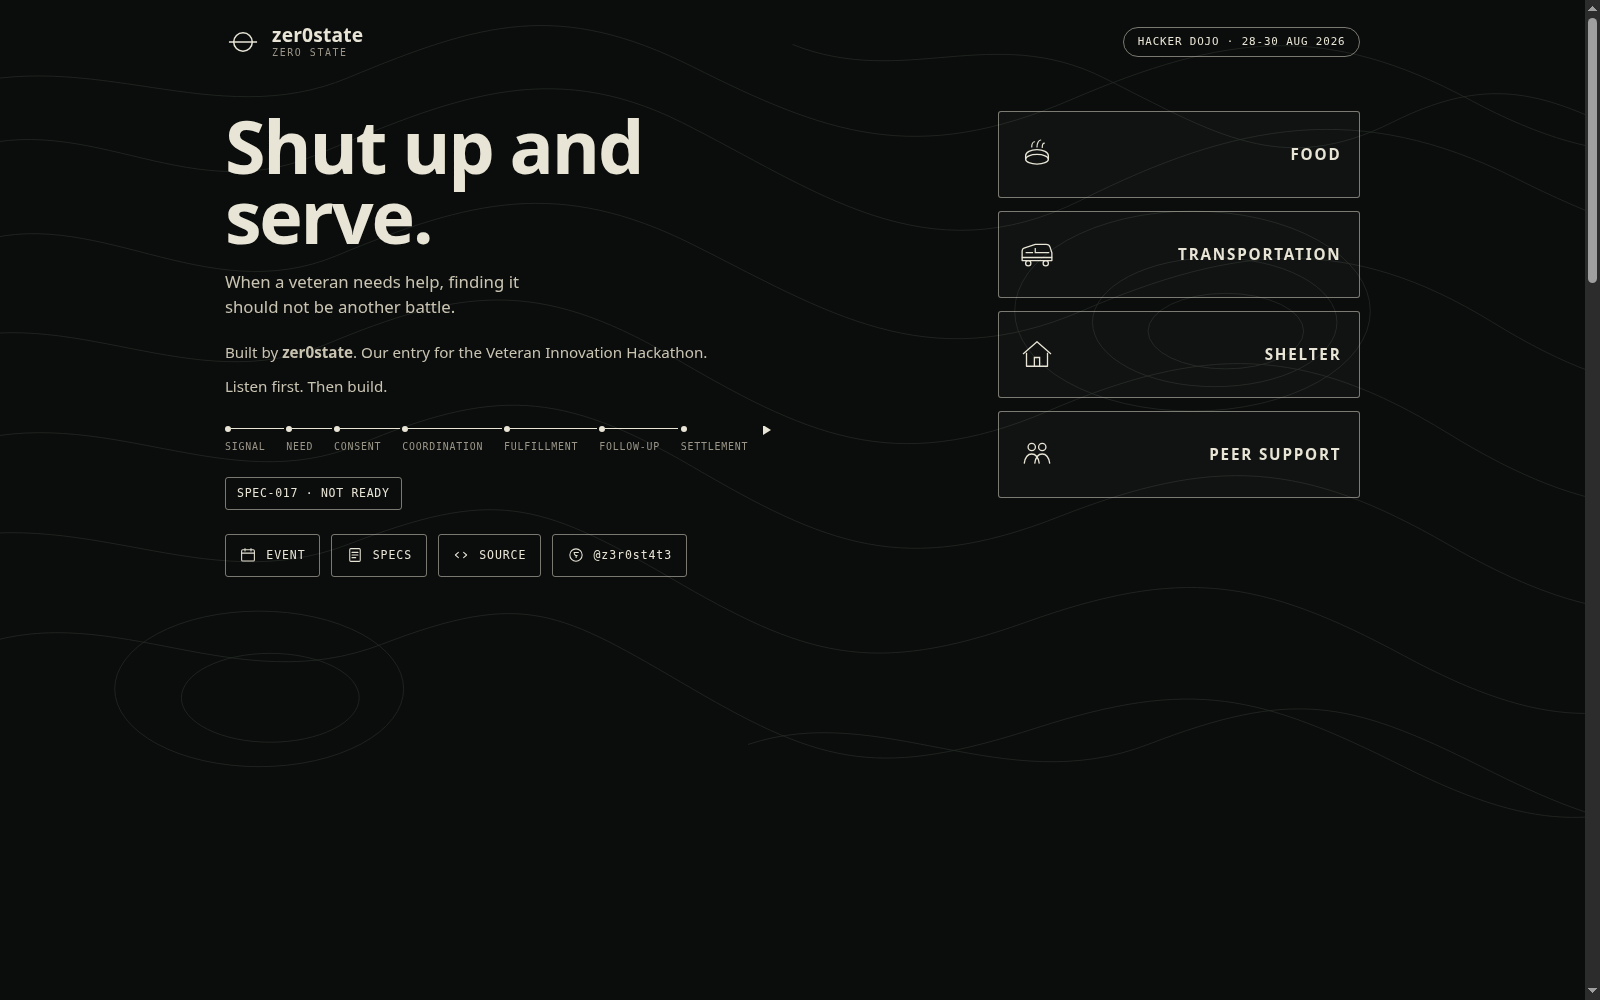
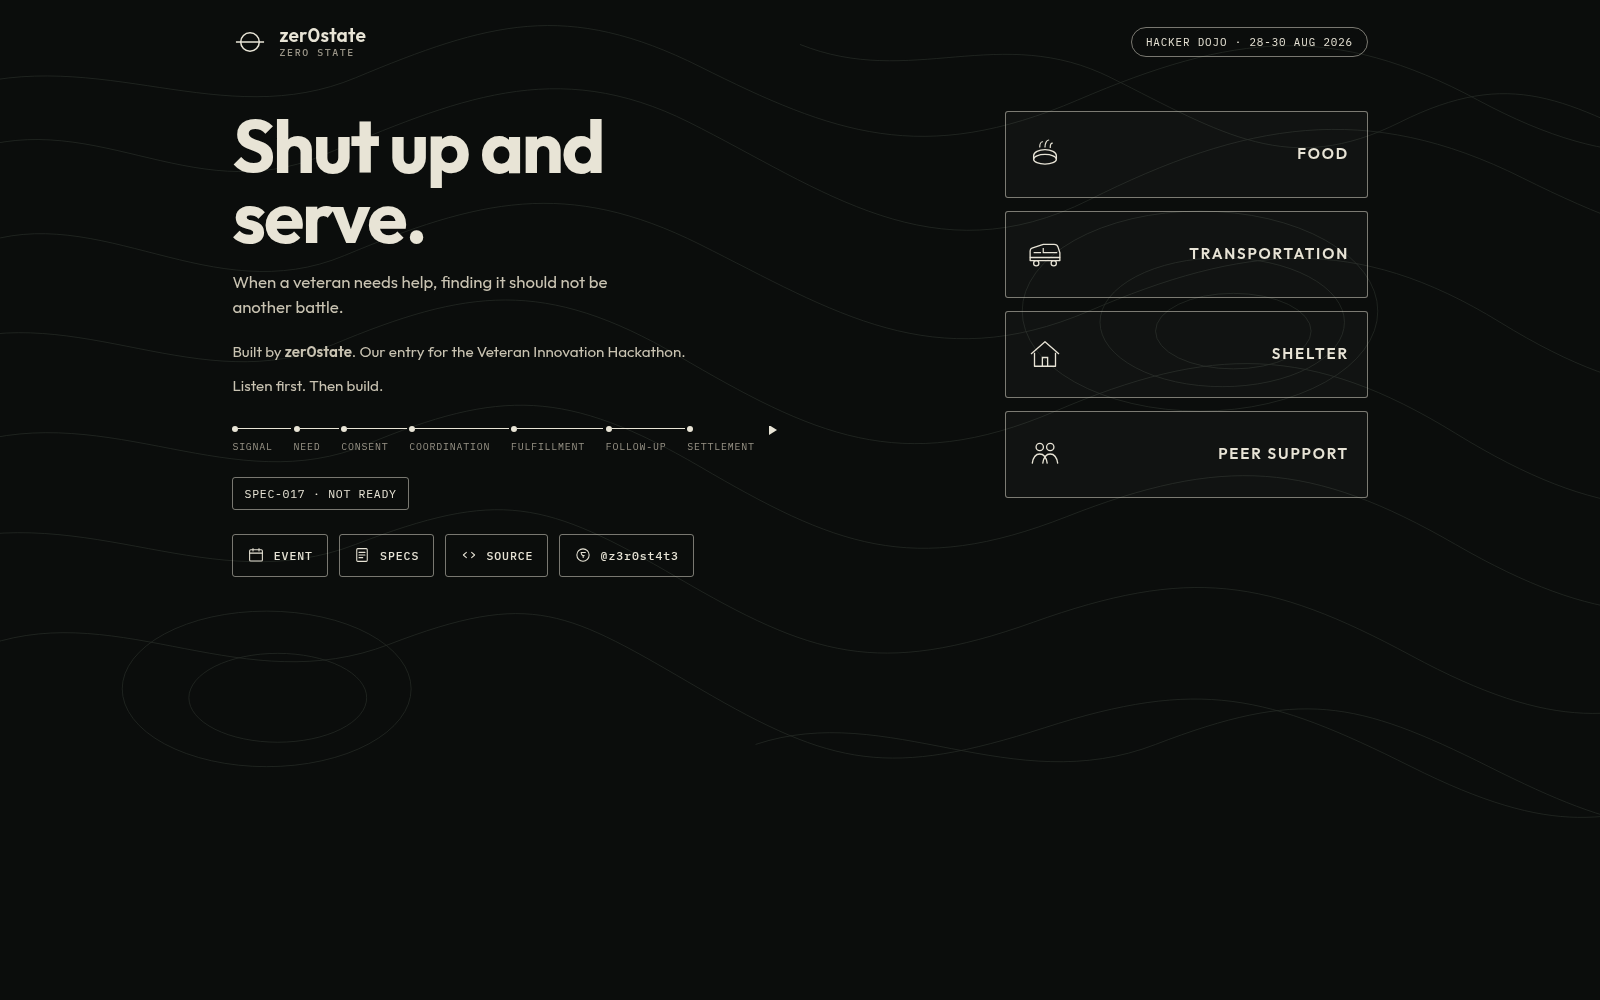
Use a live SUAS page screenshot for the Community card.
Replace the hero with a fresh capture of the public page, cropped to
the hero and category cards. Keep the Luma event as a copy link only.

diff --git a/scripts/validate-site.js b/scripts/validate-site.js
@@ -195,6 +195,14 @@ if (!/assets\/community\/suas-hero\.png/.test(index)) fail('index.html', 'SUAS p
 if (/id=["']products["'][\s\S]*\bSUAS\b[\s\S]*id=["']clients["']/.test(work)) {
   fail('work.html', 'SUAS must not appear inside the Products section');
 }
+const clientsBlock = work.match(/id=["']clients["'][\s\S]*?(?=id=["']community["']|id=["']skills["']|$)/);
+if (clientsBlock && /\bSUAS\b/.test(clientsBlock[0])) {
+  fail('work.html', 'SUAS must not appear inside the Clients section');
+}
+const communityAssets = exists('assets/community') ? fs.readdirSync(path.join(root, 'assets/community')) : [];
+if (communityAssets.some((name) => /luma|innovation4veterans/i.test(name))) {
+  fail('assets/community', 'must not ship a Luma event screenshot; link the event in copy only');
+}
 if (/\bSUAS\b/.test(fs.readFileSync(path.join(root, 'marketing.html'), 'utf8'))) {
   fail('marketing.html', 'SUAS must not be listed as a product for sale');
 }

diff --git a/CHANGELOG.md b/CHANGELOG.md
@@ -25,7 +25,7 @@ Cumulative release since `v0.3.0`: official dark home, social preview, and Herme
 
 ### Community
 - Add a **Community** section on Work (`#community`) and a short Community block on the home evidence area, separate from Products and Clients.
-- First community entry: **SUAS** (“Shut up and serve.”), with a real screenshot of https://scrimshawlife-ctrl.github.io/suas/. Built by zer0state for the Veteran Innovation Hackathon at Hacker Dojo, 28–30 August 2026. SUAS is not a Zero State product and is not listed for sale. Status on the public page: SPEC-017 · NOT READY.
+- First community entry: **SUAS** (“Shut up and serve.”), with a real screenshot of https://scrimshawlife-ctrl.github.io/suas/ cropped to the live hero and category cards. The Veteran Innovation Hackathon is linked in copy only (`https://luma.com/Innovation4Veterans`); no Luma page image. Built by zer0state for the event at Hacker Dojo, 28–30 August 2026. SUAS is not a Zero State product and is not listed for sale. Status on the public page: SPEC-017 · NOT READY.
 
 ### Clients
 - Add a **Clients** section on Work (`#clients`) and a short Clients block on the home evidence area, separate from Products.
